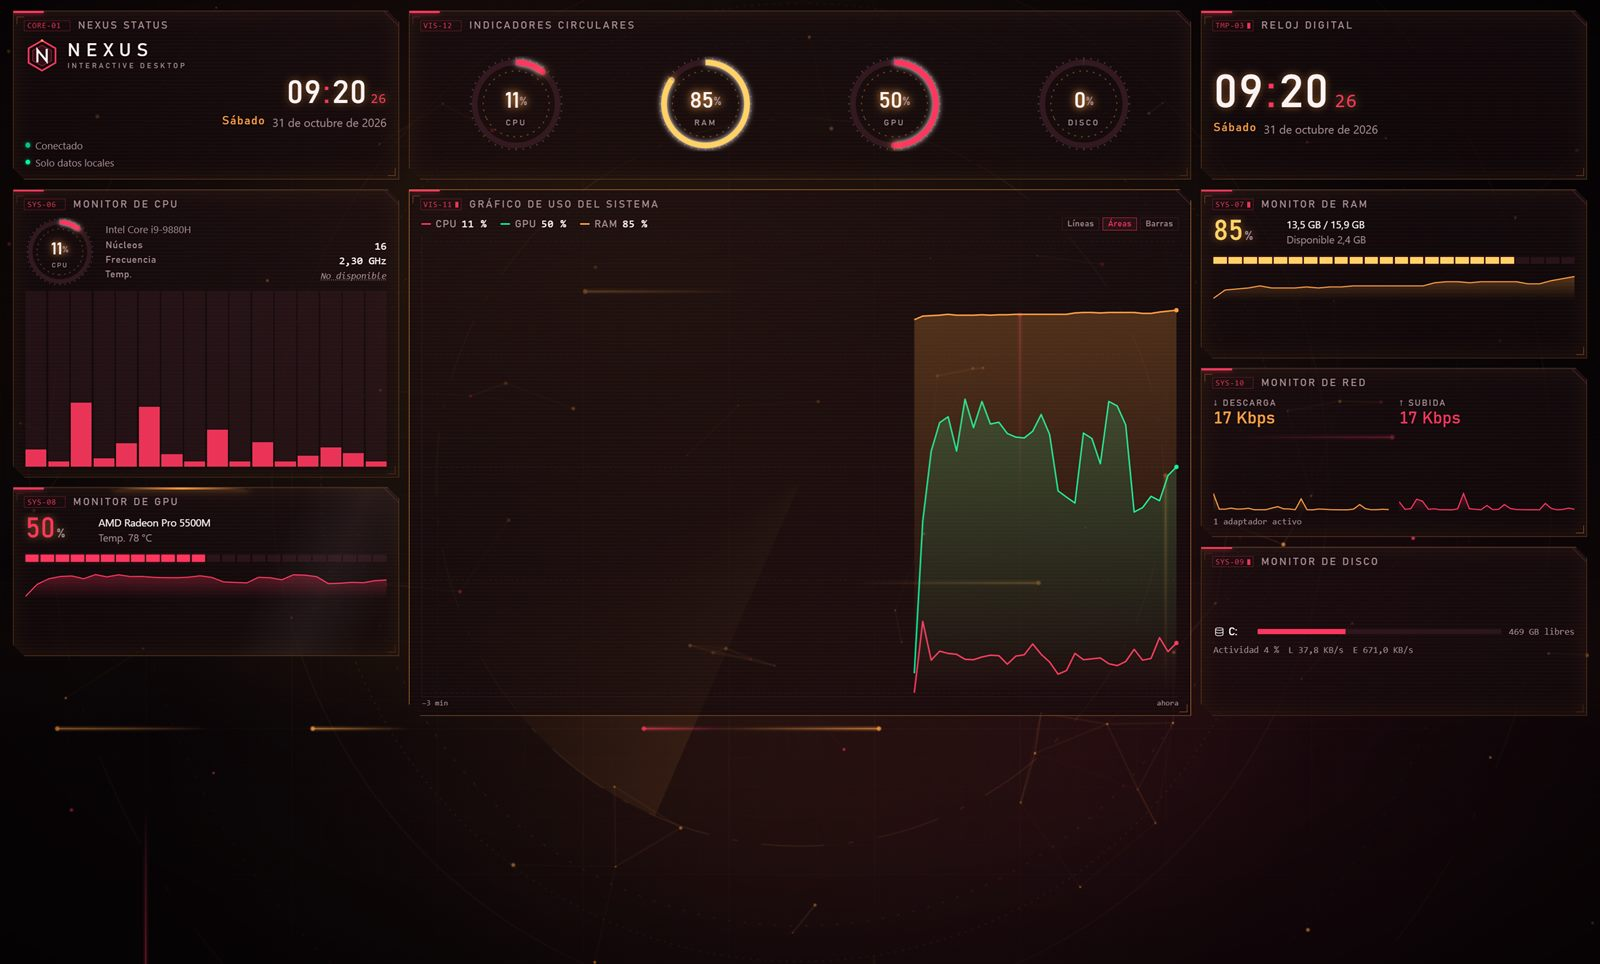
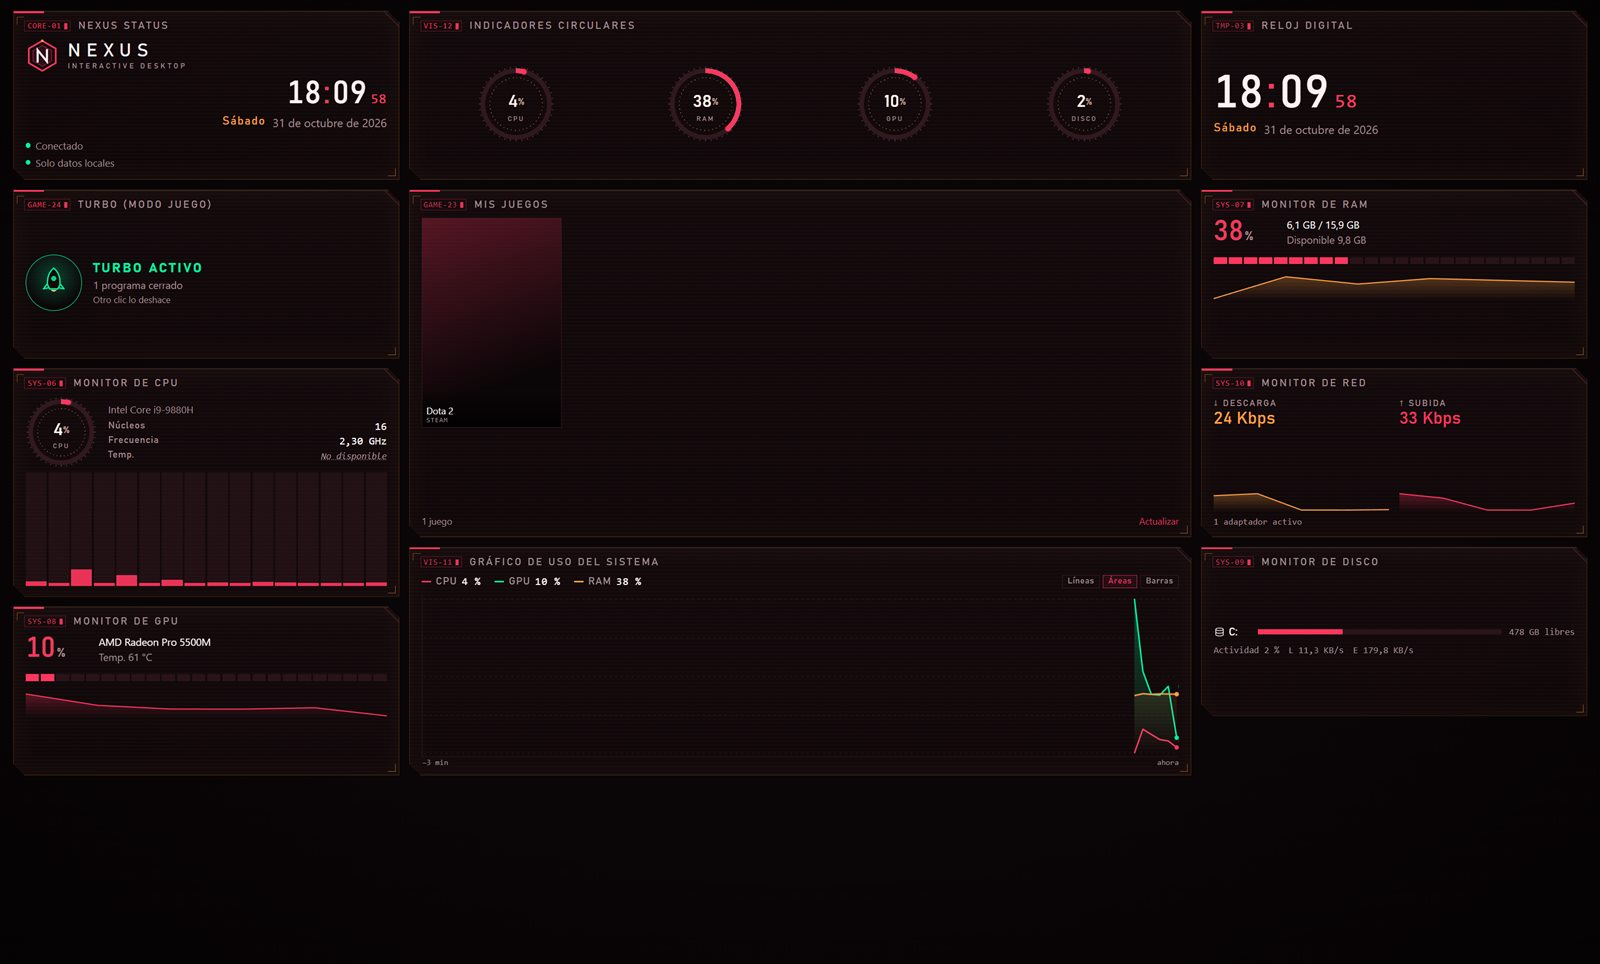
Web: portada con el perfil Gaming nuevo y los juegos en la frase principal

diff --git a/index.html b/index.html
@@ -51,7 +51,7 @@
       <div class="wrap hero-copy">
         <p class="kicker">Para Windows 10 y 11</p>
         <h1>Tu escritorio, convertido en un centro&nbsp;de&nbsp;control.</h1>
-        <p class="lead">Datos reales de tu PC, el clima, las criptomonedas y las noticias, vivos en el fondo de pantalla. En uno o varios monitores.</p>
+        <p class="lead">Datos reales de tu PC, tus juegos, el clima, las criptomonedas y las noticias, vivos en el fondo de pantalla. En uno o varios monitores.</p>
         <div class="cta-row">
           <a class="btn" data-download href="#precio">Descargar prueba de 14 días</a>
           <a class="link-arrow" href="#efectos">Ver los 4 niveles de efectos</a>

diff --git a/README.md b/README.md
@@ -8,7 +8,7 @@
   <img src="https://img.shields.io/badge/Prueba-14%20días-070a0f?style=for-the-badge&labelColor=0f161f" alt="Prueba gratuita de 14 días">
 </p>
 
-<p align="center"><b>Datos reales de tu PC, el clima, las criptomonedas y las noticias, vivos en el fondo de pantalla.<br>En uno o varios monitores.</b></p>
+<p align="center"><b>Datos reales de tu PC, tus juegos, el clima, las criptomonedas y las noticias, vivos en el fondo de pantalla.<br>En uno o varios monitores.</b></p>
 
 ---
 
